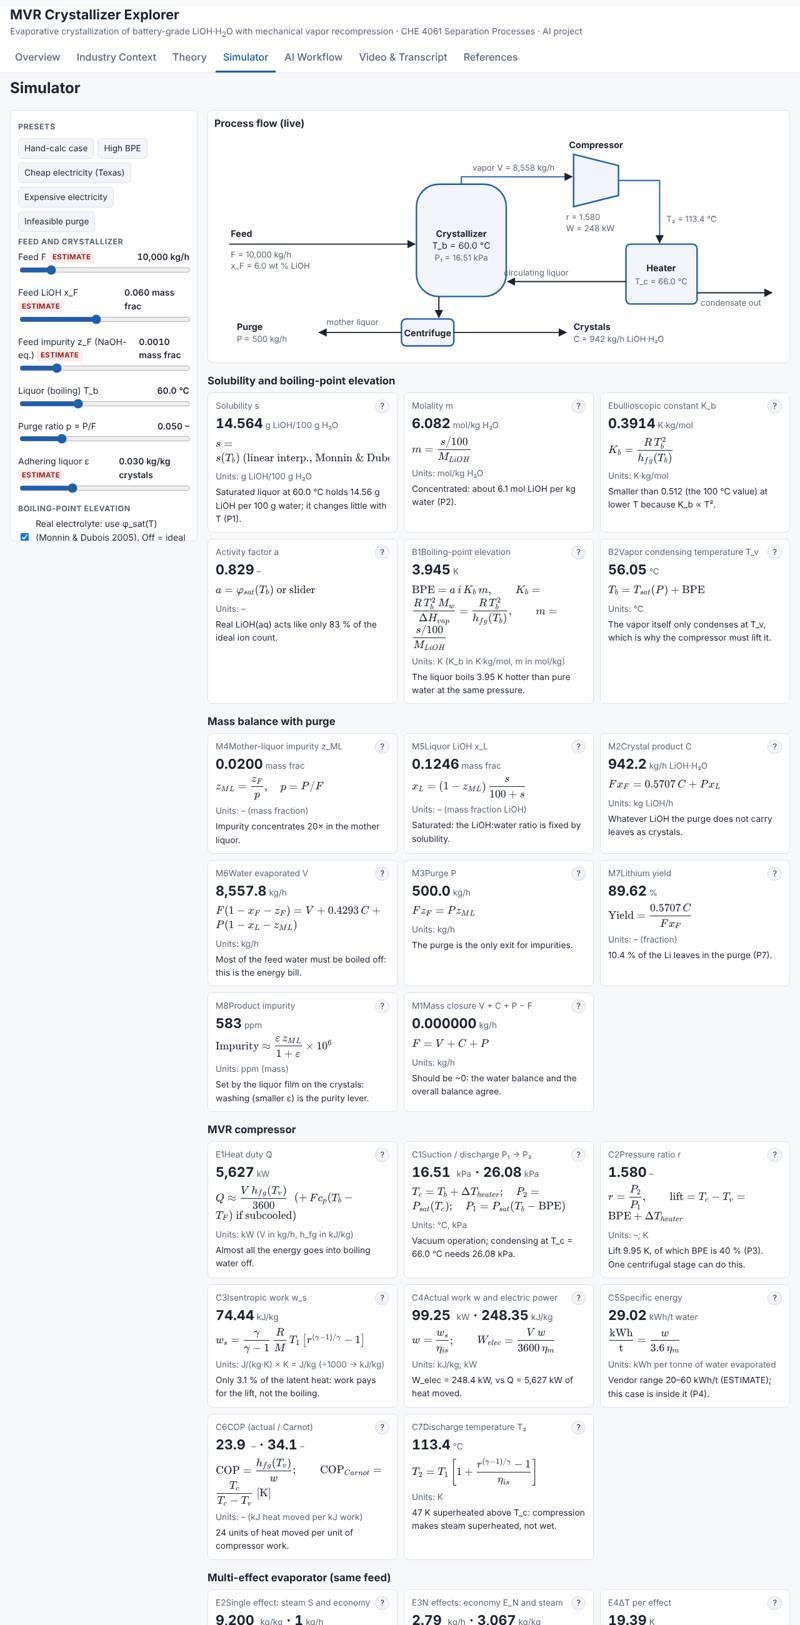
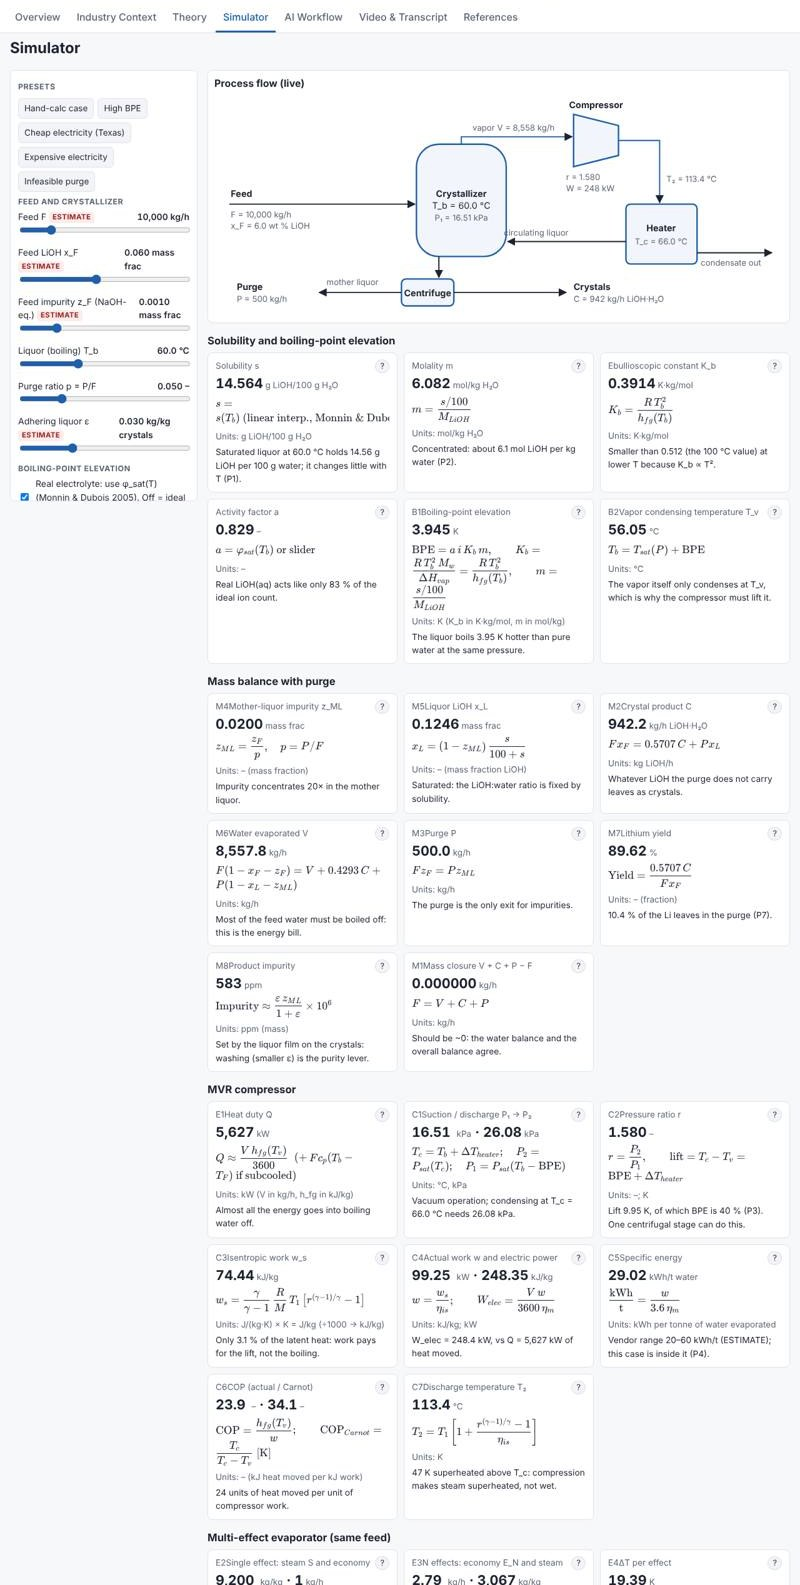
Finishing pass: red ESTIMATE flags to grey chips, Antoine constants re-verified vs NIST, unused Na spec removed, What I learned drafted, contributions filled, comparison screenshots cropped
Claude-Session: https://claude.ai/code/session_01HjAwV3A9VZDUGJhBbkK5Um

diff --git a/site/index.html b/site/index.html
@@ -432,7 +432,7 @@
       <div class="plots">
         <figure class="plot" id="fig-p5"><figcaption><span>P5 · Energy comparison: 1 / 3 / 5 effects vs MVR</span><button type="button" class="qhelp" data-help-chart="fig-p5" aria-label="About P5" aria-haspopup="dialog">?</button></figcaption><div id="p5" class="chart"></div><p class="whatif small" id="p5-note"></p><p class="whatif help-slot">What if? Which uses least fuel and least money per tonne of water?</p></figure>
         <figure class="plot" id="fig-p6"><figcaption><span>P6 · Electricity vs steam price crossover</span><button type="button" class="qhelp" data-help-chart="fig-p6" aria-label="About P6" aria-haspopup="dialog">?</button></figcaption><div id="p6" class="chart"></div><p class="whatif help-slot">What if electricity prices change? Above a line (expensive steam), MVR is cheaper; below it, that multi-effect train is cheaper.</p></figure>
-        <figure class="plot" id="fig-p9"><figcaption><span>P9 · Heater ΔT: capital vs energy (total annualized cost)</span><button type="button" class="qhelp" data-help-chart="fig-p9" aria-label="About P9" aria-haspopup="dialog">?</button></figcaption><div id="p9" class="chart"></div><p class="whatif small">Capital: DOE/NETL installed costs (1998) × CEPCI 797.9/389.5; compressor cost is a proxy (<span class="flag">ESTIMATE</span>, ±50 %).</p><p class="whatif help-slot">Why not just use a tiny ΔT? Try U, electricity price, and interest.</p></figure>
+        <figure class="plot" id="fig-p9"><figcaption><span>P9 · Heater ΔT: capital vs energy (total annualized cost)</span><button type="button" class="qhelp" data-help-chart="fig-p9" aria-label="About P9" aria-haspopup="dialog">?</button></figcaption><div id="p9" class="chart"></div><p class="whatif small">Capital: DOE/NETL installed costs (1998) × CEPCI 797.9/389.5; compressor cost is a proxy (<span class="est-chip">estimate</span>, ±50 %).</p><p class="whatif help-slot">Why not just use a tiny ΔT? Try U, electricity price, and interest.</p></figure>
         <figure class="plot" id="fig-p10"><figcaption><span>P10 · Turndown at fixed heater area</span><button type="button" class="qhelp" data-help-chart="fig-p10" aria-label="About P10" aria-haspopup="dialog">?</button></figcaption><div id="p10" class="chart"></div><p class="whatif help-slot">Does the unit still work at part load? With the heater already built, less heat needs less ΔT, so less lift. (No compressor surge map: beyond course level.)</p></figure>
         <figure class="plot" id="fig-p11"><figcaption><span>P11 · Multi-effect feasibility</span><button type="button" class="qhelp" data-help-chart="fig-p11" aria-label="About P11" aria-haspopup="dialog">?</button></figcaption><div id="p11" class="chart"></div><p class="whatif help-slot">How many effects can this brine support?</p></figure>
       </div></section>
@@ -510,8 +510,8 @@
       <p class="ind-eyebrow">Side by side</p>
       <h3 class="ind-h">Simulator tab, Phase 1 (1280 px)</h3>
       <div class="compare-shots">
-      <figure><img src="img/compare/claude-phase1-simulator.jpg" alt="Claude build simulator tab: sliders, process flow diagram, and result cards each showing an equation, value, units and interpretation" loading="lazy" width="800" height="1625"><figcaption>Claude (Opus 5.5)</figcaption></figure>
-      <figure><img src="img/compare/gemini-phase1-simulator.jpg" alt="Gemini build simulator tab: sliders, process flow diagram, grouped value cards with question-mark buttons, and plots" loading="lazy" width="800" height="1625"><figcaption>Gemini (3.5-flash)</figcaption></figure>
+      <figure><img src="img/compare/claude-phase1-simulator.jpg" alt="Claude build simulator tab: sliders, process flow diagram, and result cards each showing an equation, value, units and interpretation" loading="lazy" width="800" height="1585"><figcaption>Claude (Opus 5.5)</figcaption></figure>
+      <figure><img src="img/compare/gemini-phase1-simulator.jpg" alt="Gemini build simulator tab: sliders, process flow diagram, grouped value cards with question-mark buttons, and plots" loading="lazy" width="800" height="1592"><figcaption>Gemini (3.5-flash)</figcaption></figure>
     </div>
     </div>
 
@@ -609,7 +609,34 @@
   <div class="ind-sec">
     <p class="ind-eyebrow">Reflection</p>
     <h3 class="ind-h">What I learned / what I want to learn next</h3>
-    <div class="ind-card vd-learn"><span class="est-chip">to be written</span><p>Andrew writes this section after the build and presentation.</p></div>
+    <div class="vd-learned">
+      <article class="ind-card">
+        <h4>What I learned: the engineering</h4>
+        <ul>
+          <li><strong>MVR only pays for the lift.</strong> The compressor raises the vapor's condensing temperature by BPE + ΔT<sub>heater</sub> (about 10 K), instead of supplying the latent heat, which is why its COP is around 24.</li>
+          <li><strong>Real electrolytes matter.</strong> Concentrated LiOH is less "active" than ideal (φ ≈ 0.83), so the real BPE is 3.95 K, not 4.76 K, and every kelvin of BPE is lift the compressor has to pay for.</li>
+          <li><strong>Cheapest to run is not always MVR.</strong> With today's cheap Texas natural gas, five evaporator effects beat MVR on energy cost alone; capital cost and the heater ΔT trade-off (optimum about 3 K) tell the rest of the story.</li>
+          <li><strong>The purge is a dial between yield and purity.</strong> Less purge keeps more lithium, but sodium builds up in the mother liquor and rides out on the crystals.</li>
+        </ul>
+      </article>
+      <article class="ind-card">
+        <h4>What I learned: working with AI</h4>
+        <ul>
+          <li><strong>A detailed plan and tests written first made correctness the easy part.</strong> Both Claude and Gemini got the physics right on the first try; they differed in presentation and honesty.</li>
+          <li><strong>The critic needs checking too.</strong> Gemini's critique was right about compressor superheat but wrong on its one "critical" point, and its build invented an approval that never happened.</li>
+          <li><strong>Every number needs a source.</strong> Estimates are labeled, and anything unsourced stays out until it is sourced.</li>
+          <li><strong>Test where people actually look.</strong> Live-site tests found a badge covering a phone button, and a diagnostics page showed "no animation on iPhone" was the Reduce Motion setting, not a bug.</li>
+        </ul>
+      </article>
+      <article class="ind-card">
+        <h4>What I want to learn next</h4>
+        <ul>
+          <li><strong>Process dynamics and control</strong> of the crystallizer: start-up, level and temperature loops, and anti-surge control of the MVR compressor.</li>
+          <li><strong>Crystal size distribution</strong> with population balances, which this site keeps qualitative.</li>
+          <li><strong>Checking the model against real plant or vendor data</strong>, and better capital-cost sources than a 1998 index escalation.</li>
+        </ul>
+      </article>
+    </div>
   </div>
 </section>
 
@@ -649,11 +676,11 @@
     <p class="ind-eyebrow">The team</p>
     <h3 class="ind-h">Contributions</h3>
     <div class="ref-people">
-      <article class="ind-card"><h4>Andrew</h4><p class="ref-role">Project lead</p><p>Topic, guidance and decisions at every step, approval of critique decisions, data verification, presentation. <span class="est-chip">details to be added</span></p></article>
+      <article class="ind-card"><h4>Andrew</h4><p class="ref-role">Project lead</p><p>Chose the topic and the Tesla industry angle; approved or rejected every critique point with a reason; chose the models, the API budgets and the steam-price basis; directed every redesign and clean-up; tested the site on real devices; deployed every release; presentation and video.</p></article>
       <article class="ind-card"><h4>Claude (Anthropic), via Claude Code</h4><p class="ref-role">Planner and builder</p><p>Plan v1, plan v2 merge, Phase 0 data and test harness, this build (<code>site/</code>).</p></article>
       <article class="ind-card"><h4>Gemini (Google)</h4><p class="ref-role">Critic and second builder</p><p>Critique of plan v1; independent Phase 1 build (<code>site/gemini/</code>).</p></article>
       <article class="ind-card"><h4>ChatGPT (OpenAI)</h4><p class="ref-role">Redesign planner</p><p>The 6-phase UI/UX redesign plan that Andrew worked out with ChatGPT and Claude then carried out.</p></article>
-      <article class="ind-card"><h4>Other tools</h4><p class="ref-role">Libraries and hosting</p><p>Plotly 2.35.2 (charts), KaTeX 0.16.11 (equations), Netlify (hosting). <span class="est-chip">details to be added</span></p></article>
+      <article class="ind-card"><h4>Other tools</h4><p class="ref-role">Libraries, testing and hosting</p><p>GitHub (version control) and GitHub Actions (CI, and the Gemini CLI runs); Playwright with Chromium (browser tests); Plotly 2.35.2 (charts); KaTeX 0.16.11 (equations); YouTube's privacy-enhanced embed (Tesla video); Netlify (hosting).</p></article>
     </div>
   </div>
 </section>

diff --git a/site/js/data.js b/site/js/data.js
@@ -13,10 +13,9 @@ export const DATA = {
       "accessed": "2026-11-13"
     },
     "antoine-lange": {
-      "citation": "Antoine constants for water (log10 P[mmHg] = A - B/(C + T[C])), A = 8.07131, B = 1730.63, C = 233.426, as tabulated in Lange's Handbook of Chemistry (via the Wikipedia 'Antoine equation' table). Checked by Claude against the NIST WebBook table: within 0.38 % from 30 to 110 C and 0.56 % at 130 C.",
+      "citation": "Antoine constants for water (log10 P[mmHg] = A - B/(C + T[C])), A = 8.07131, B = 1730.63, C = 233.426, as tabulated in Lange's Handbook of Chemistry (via the Wikipedia 'Antoine equation' table). Verified against the NIST WebBook saturation table (nist-water, 25 points, 30-150 C): within 0.38 % from 30 to 110 C (max 0.383 %, mean -0.27 %) and 0.56 % at 130 C; re-checked 2026-11-27.",
       "url": "https://en.wikipedia.org/wiki/Antoine_equation",
-      "accessed": "2026-11-13",
-      "verify": "Andrew: confirm the constants in a print copy of Lange's Handbook or Felder & Rousseau Table B.4."
+      "accessed": "2026-11-13"
     },
     "monnin2005": {
       "citation": "Monnin, C.; Dubois, M. Thermodynamics of the LiOH + H2O system. J. Chem. Eng. Data 2005, 50 (4), 1109-1113. doi:10.1021/je0495482. Solubility fit: Eq 1 and Table 1 (LiOH.H2O, 255-373 K, 18 points from Pickering, Donk, Van Moeurs, Stephan & Miller, Ennan & Lapshin). Osmotic coefficient: Pitzer model Eqs 3-6, 8, Tables 3-4.",
@@ -929,15 +928,6 @@ export const DATA = {
       "sourceId": "estimate",
       "estimate": true,
       "note": "Equipment life for annualizing capital; slider 5-20."
-    }
-  },
-  "spec": {
-    "naMax_ppm": {
-      "value": null,
-      "units": "ppm Na",
-      "sourceId": "estimate",
-      "estimate": true,
-      "note": "SOURCE NEEDED: GB/T 26008-2020 Table 1 or a producer data sheet. Spec line hidden until sourced."
     }
   }
 };

diff --git a/site/js/ui.js b/site/js/ui.js
@@ -67,7 +67,7 @@ function buildSliders() {
     if (s.fixed) { html += `<p class="slider hint">${s.fixed}</p>`; continue; }
     if (s.toggle) { html += `<label class="toggle"><input type="checkbox" id="in-${s.toggle}"> ${s.label}</label>`; continue; }
     const [min, max] = RANGES[s.key];
-    html += `<label class="slider" id="wrap-${s.key}"><span class="row"><span>${s.label}${s.estimate ? ' <span class="flag">ESTIMATE</span>' : ''}</span><output id="out-${s.key}"></output></span>
+    html += `<label class="slider" id="wrap-${s.key}"><span class="row"><span>${s.label}${s.estimate ? ' <span class="est-chip">estimate</span>' : ''}</span><output id="out-${s.key}"></output></span>
       <input type="range" id="in-${s.key}" min="${min}" max="${max}" step="${s.step}" aria-label="${esc(s.label)}">
       ${s.note ? `<span class="hint help-slot">${s.note}</span>` : ''}</label>`;
   }
@@ -351,7 +351,7 @@ function helpGroup(name) {
     if (s.fixed) return `<li>${s.fixed}</li>`;
     if (s.toggle) return `<li>${s.label}</li>`;
     const [lo, hi] = RANGES[s.key];
-    return `<li><strong>${s.label}</strong>${s.estimate ? ' <span class="flag">ESTIMATE</span>' : ''}<br><span class="hp-units">range ${fmt(lo, s.d)}–${fmt(hi, s.d)} ${s.units}</span>${s.note ? `<br>${s.note}` : ''}</li>`;
+    return `<li><strong>${s.label}</strong>${s.estimate ? ' <span class="est-chip">estimate</span>' : ''}<br><span class="hp-units">range ${fmt(lo, s.d)}–${fmt(hi, s.d)} ${s.units}</span>${s.note ? `<br>${s.note}` : ''}</li>`;
   }).join('');
   return { eyebrow: 'Inputs', title: name.charAt(0) + name.slice(1).toLowerCase(), body: `<ul class="hp-list">${rows}</ul><p class="hp-units">ESTIMATE = engineering estimate, not primary data (see References).</p>` };
 }

diff --git a/site/js/charts.js b/site/js/charts.js
@@ -181,14 +181,13 @@ export function p7(out) {
   tr.push({ x: [inp.purgeRatio], y: [ok ? 100 * out.mass.liYield : null], mode: 'markers', marker: { size: 11, color: ok ? C.warn : C.grey, symbol: 'diamond' }, name: 'Current p', yaxis: 'y' });
   tr.push({ x: [inp.purgeRatio], y: [ok ? out.mass.productImpurity_ppm : null], mode: 'markers', marker: { size: 11, color: ok ? C.warn : C.grey, symbol: 'diamond' }, showlegend: false, yaxis: 'y2' });
   const shapes = [];
-  const spec = DATA.spec.naMax_ppm.value;
+  const spec = DATA.spec?.naMax_ppm?.value ?? null;   // optional battery-grade Na limit (draws a line only if sourced)
   if (spec != null) shapes.push({ type: 'line', xref: 'paper', yref: 'y2', x0: 0, x1: 1, y0: spec, y1: spec, line: { color: C.e5, dash: 'dash' } });
   draw('p7', tr, base({
     grid: { rows: 2, columns: 1, pattern: 'coupled' },
     xaxis: ax('Purge ratio p = P/F'),
     yaxis: ax('Li yield (%)', { domain: [0.56, 1] }), yaxis2: ax('Impurity (ppm, log)', { domain: [0, 0.44], type: 'log' }),
     shapes, legend: { orientation: 'h', y: -0.25, font: { size: 10 } },
-    annotations: spec == null ? [{ text: 'Battery-grade Na spec line hidden: SOURCE NEEDED', xref: 'paper', yref: 'paper', x: 0.99, y: 0.44, xanchor: 'right', yanchor: 'top', showarrow: false, font: { size: 10, color: C.muted } }] : [],
   }));
 }
 

diff --git a/site/css/style.css b/site/css/style.css
@@ -1180,3 +1180,10 @@ html[data-motion="off"] .th-more > summary::after, html[data-motion="off"] .th-a
   .ref-list li { padding-left: 52px; }
 }
 .ref-list { max-width: none; }
+/* Video tab: What I learned */
+.vd-learned { display: grid; grid-template-columns: repeat(3, minmax(0, 1fr)); gap: var(--s4); align-items: start; }
+.vd-learned h4 { margin: 0 0 var(--s2); font-size: 1.12rem; letter-spacing: -0.02em; }
+.vd-learned ul { margin: 0; padding-left: 1.1em; color: var(--muted); line-height: 1.6; }
+.vd-learned li { margin-bottom: 8px; }
+.vd-learned li strong { color: var(--text); }
+@media (max-width: 1000px) { .vd-learned { grid-template-columns: minmax(0, 1fr); } }

diff --git a/tools/build_data.py b/tools/build_data.py
@@ -23,10 +23,9 @@ SOURCES = {
         "accessed": ACCESSED,
     },
     "antoine-lange": {
-        "citation": "Antoine constants for water (log10 P[mmHg] = A - B/(C + T[C])), A = 8.07131, B = 1730.63, C = 233.426, as tabulated in Lange's Handbook of Chemistry (via the Wikipedia 'Antoine equation' table). Checked by Claude against the NIST WebBook table: within 0.38 % from 30 to 110 C and 0.56 % at 130 C.",
+        "citation": "Antoine constants for water (log10 P[mmHg] = A - B/(C + T[C])), A = 8.07131, B = 1730.63, C = 233.426, as tabulated in Lange's Handbook of Chemistry (via the Wikipedia 'Antoine equation' table). Verified against the NIST WebBook saturation table (nist-water, 25 points, 30-150 C): within 0.38 % from 30 to 110 C (max 0.383 %, mean -0.27 %) and 0.56 % at 130 C; re-checked 2026-11-27.",
         "url": "https://en.wikipedia.org/wiki/Antoine_equation",
         "accessed": ACCESSED,
-        "verify": "Andrew: confirm the constants in a print copy of Lange's Handbook or Felder & Rousseau Table B.4.",
     },
     "monnin2005": {
         "citation": "Monnin, C.; Dubois, M. Thermodynamics of the LiOH + H2O system. J. Chem. Eng. Data 2005, 50 (4), 1109-1113. doi:10.1021/je0495482. Solubility fit: Eq 1 and Table 1 (LiOH.H2O, 255-373 K, 18 points from Pickering, Donk, Van Moeurs, Stephan & Miller, Ennan & Lapshin). Osmotic coefficient: Pitzer model Eqs 3-6, 8, Tables 3-4.",
@@ -305,9 +304,6 @@ def build():
             "cepciNow": val(797.9, "-", "ce-econ-ind-2024", False, "CEPCI 2023 annual average, latest annual value available without a subscription."),
             "interest": val(0.10, "1/yr", "estimate", True, "Interest (discount) rate for annualizing capital; slider 0.05-0.15."),
             "life_yr": val(10, "yr", "estimate", True, "Equipment life for annualizing capital; slider 5-20."),
-        },
-        "spec": {
-            "naMax_ppm": val(None, "ppm Na", "estimate", True, "SOURCE NEEDED: GB/T 26008-2020 Table 1 or a producer data sheet. Spec line hidden until sourced."),
         },
     }
     return data

diff --git a/docs/process-log.md b/docs/process-log.md
@@ -518,3 +518,28 @@ The test also confirmed a detail: 22 values are estimates, and one of them (`spe
 - a CI workflow.
 
 Verified as a fresh project: npm 4/4; smoke 7 tabs, 3 sliders, 0 failures in light and dark; basics pass. Zipped as `dist/starter-kit.zip`.
+
+## 2026-11-27 — finishing pass: every red tag and "to verify" resolved
+
+**Prompt (verbatim):** "okay now I want to completely finish the website. get rid of all of the to verify and red tags. ask me questions and we can clear things up and push"
+
+**Inventory:**
+- 16 red ESTIMATE flags on the Simulator;
+- one "to verify" (Antoine constants);
+- one "source needed" (battery-grade Na limit);
+- placeholders on the Video tab ("What I learned") and in Contributions;
+- the class name still visible inside the two comparison screenshots.
+
+**Andrew's decisions and what was done:**
+- **Simulator estimates:** now grey "estimate" chips (sliders, Help panel, P9 note); still clearly labeled.
+- **Antoine constants:** re-verified against the stored NIST table (25 points): max 0.383 % from 30 to 110 °C, mean −0.27 %, 0.56 % at 130 °C. Recorded in the citation; the "to verify" note is removed.
+- **Battery-grade Na limit (`spec.naMax_ppm`):** unused and unsourced, so removed from `tools/build_data.py` and `data.js`. Chart P7 no longer shows its "SOURCE NEEDED" note. The References table now lists 39 values.
+- **Video:** not uploaded yet, so the "coming by Dec 4" card and the transcript chip stay.
+- **What I learned / what I want to learn next:** drafted in Andrew's voice from this log (engineering lessons, AI-workflow lessons, next steps), for him to edit before presenting.
+- **Contributions:** Andrew's card and "Other tools" are filled in from the log and the repo.
+- **Comparison screenshots:** cropped above the tab row (Claude −40 px, Gemini −33 px) to remove the course and professor names. The simulator content is unchanged.
+- **Tesla figure:** kept as cited coverage of the 2025 Impact Report.
+
+**Result:** 0 red flags or placeholders and no "to verify" left. The remaining grey chips are honest qualifiers: 39 estimates, 1 schematic, 1 market estimate, and the transcript pending upload. `browser-pages.mjs` now accepts at least 30 values (39 after the removal).
+
+**Tests:** full suite passes; the expected hand-calc values are unchanged.
